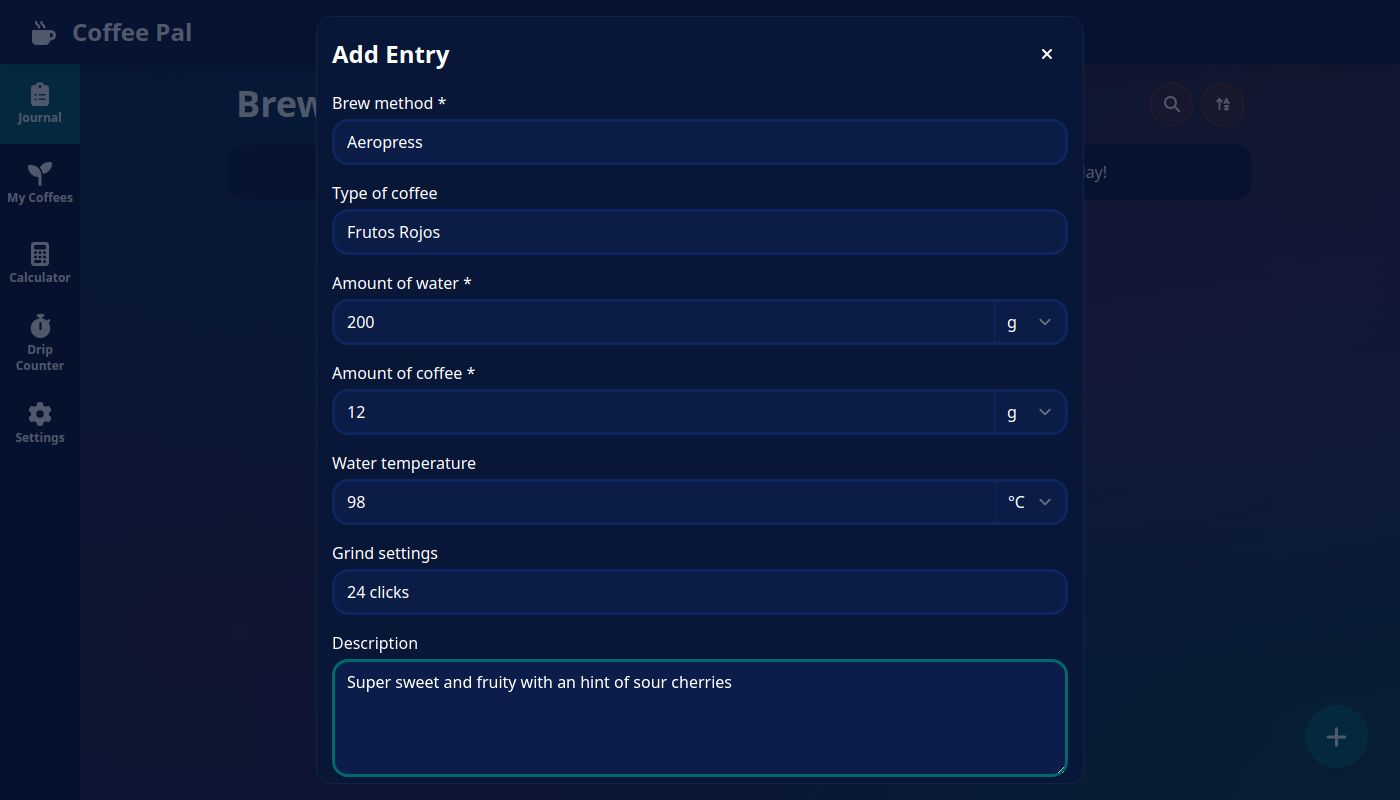
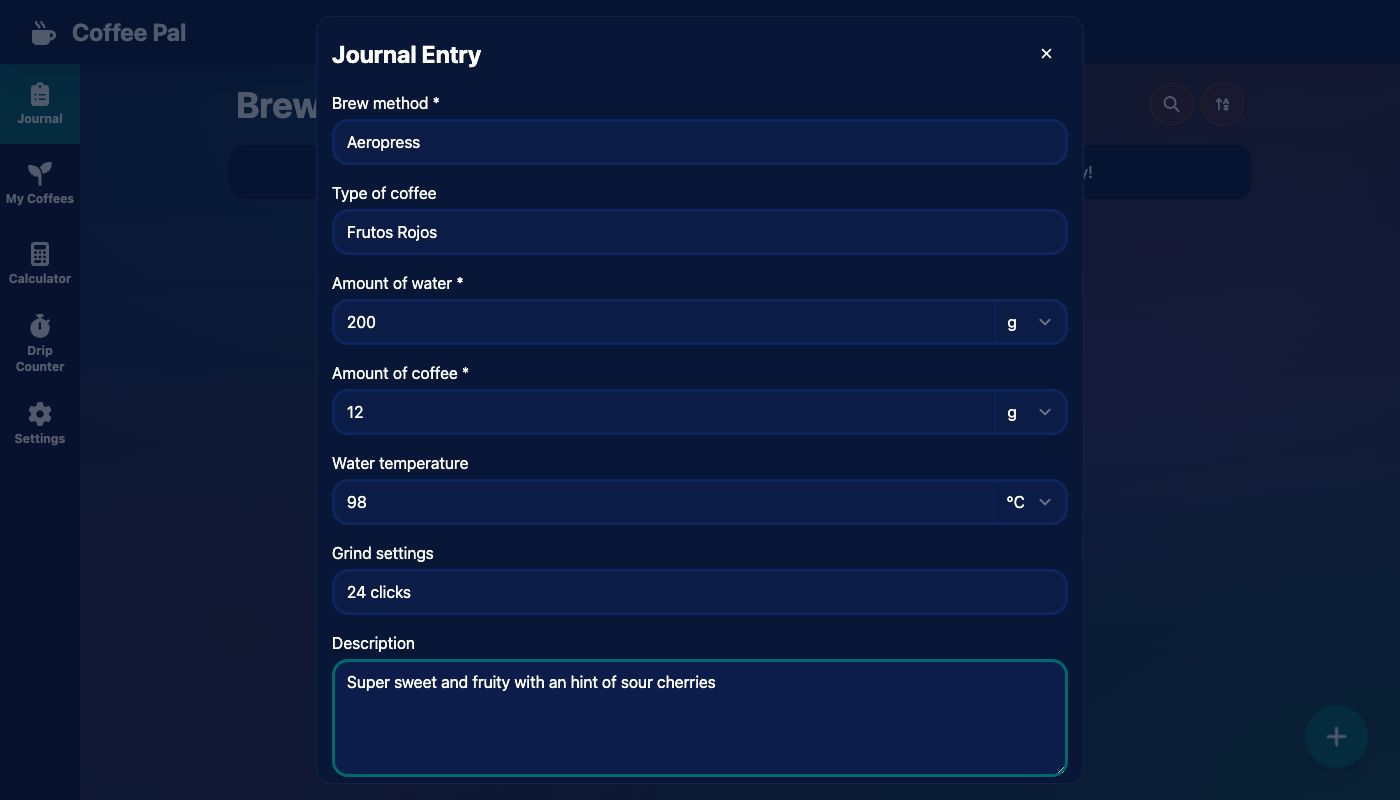
update screenshots

diff --git a/scripts/generate-screenshots.js b/scripts/generate-screenshots.js
@@ -37,6 +37,8 @@ const testCoffeeEntries = [
   {
     name: 'Frutos Rojos',
     origin: 'Colombia',
+    process: 'Washed',
+    variety: 'Arabica Castillo',
     trader: 'Alt Wien',
     aromas: [
       'strawberry yoghurt',
@@ -47,11 +49,13 @@ const testCoffeeEntries = [
       'sour cherry',
       'black tea',
     ],
-    description: 'Tastes super fresh',
+    description: '',
   },
   {
     name: 'Ethiopia Sidamo',
     origin: 'Ethiopia',
+    process: 'Natural',
+    variety: 'Arabica Heirloom',
     trader: 'Alt Wien',
     aromas: [],
     description: '',
@@ -59,6 +63,8 @@ const testCoffeeEntries = [
   {
     name: 'Java WIB',
     origin: 'Indonesia',
+    process: 'Washed',
+    variety: 'Robusta',
     trader: 'Alt Wien',
     aromas: [],
     description: '',
@@ -138,7 +144,7 @@ async function addJournalEntry(
   screenshot = false,
 ) {
   await clickAddButton();
-  await expect(page.getByText('add entry')).toBeVisible();
+  await expect(page.getByText('Journal Entry', { exact: true })).toBeVisible();
 
   const methodInput = page.getByLabel('brew method');
   await methodInput.fill(method);
@@ -163,12 +169,22 @@ async function addJournalEntry(
   await page.waitForTimeout(250);
 }
 
-async function addCoffeeEntry({ name, origin, trader, aromas, description } = {}) {
+async function addCoffeeEntry({
+  name,
+  origin,
+  process,
+  variety,
+  trader,
+  aromas,
+  description,
+} = {}) {
   await clickAddButton();
-  await expect(page.getByText('add entry')).toBeVisible();
+  await expect(page.getByText('Coffee Entry', { exact: true })).toBeVisible();
 
   await page.getByLabel('name').fill(name);
   await page.getByLabel('origin').fill(origin);
+  await page.getByLabel('process').fill(process);
+  await page.getByLabel('variety').fill(variety);
   await page.getByLabel('trader').fill(trader);
 
   const aromasInput = page.getByPlaceholder('aromas');
